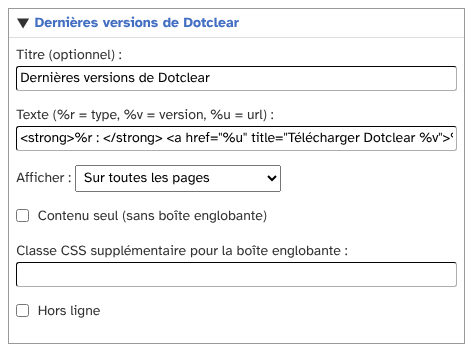
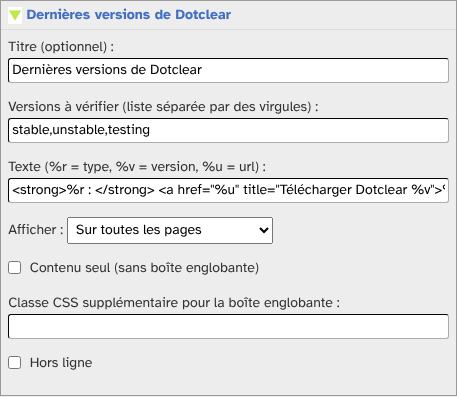
[cosmetic] User guide: follow the widget builds setting and retry delay

Changed region(s): [[0.0, 0.0, 1.0, 1.0]]

diff --git a/docs/fr/utilisation.md b/docs/fr/utilisation.md
@@ -37,6 +37,7 @@ Chaque ligne montre le type de version, puis le numéro qui sert de lien vers le
 ![Réglages du widget](img/widget-reglages.png)
 
 * _Titre (optionnel)_ : le titre du widget.
+* _Versions à vérifier (liste séparée par des virgules)_ : les types de version à afficher dans ce widget. Le champ reprend la liste générale (voir plus bas) quand vous ajoutez le widget. Si vous le videz, le widget suit la liste générale.
 * _Texte_ : le modèle d'une ligne. Trois codes sont remplacés : `%r` par le type de version (stable, unstable, testing), `%v` par le numéro et `%u` par l'adresse de téléchargement. Le HTML est accepté.
 * _Afficher_ : sur toutes les pages ou seulement en page d'accueil.
 * _Contenu seul (sans boîte englobante)_ : supprime la boîte autour du widget.
@@ -63,7 +64,7 @@ Cette option est personnelle : chaque utilisateur choisit pour lui-même.
 
 ## Choisir les versions à suivre
 
-Par défaut, le plugin suit trois types : `stable,unstable,testing`.
+Par défaut, le plugin suit trois types : `stable,unstable,testing`. Cette liste générale sert à la boîte du tableau de bord, et aux widgets dont le champ _Versions à vérifier_ est vide.
 
 Pour changer cette liste, utilisez la page _about:config_ (plugin _aboutConfig_, fourni avec Dotclear) :
 
@@ -79,6 +80,6 @@ Les majuscules et les espaces autour des noms sont ignorés. Un type inconnu du 
 ## Bon à savoir
 
 * Le site de Dotclear est interrogé au plus toutes les six heures. Entre deux, le plugin utilise une copie gardée en cache.
-* Si le site de Dotclear n'est pas joignable et qu'aucune copie n'existe, rien ne s'affiche : ni le widget, ni la boîte du tableau de bord. Aucun message n'explique pourquoi.
-* Si la liste `builds` est vide, rien ne s'affiche non plus.
+* Si le site de Dotclear n'est pas joignable et qu'aucune copie n'existe, rien ne s'affiche : ni le widget, ni la boîte du tableau de bord. Aucun message n'explique pourquoi. Le plugin attend alors une heure avant d'interroger à nouveau le site, pour ne pas ralentir vos pages.
+* Si la liste `builds` est vide (et le champ du widget aussi), rien ne s'affiche non plus.
 * Le widget et la boîte montrent seulement le numéro de version et le lien. Ils ne comparent pas avec la version installée sur votre blog.
